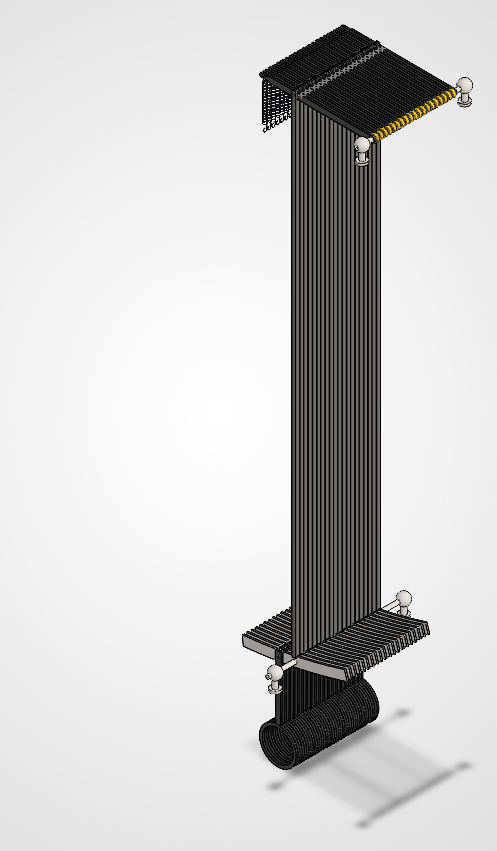
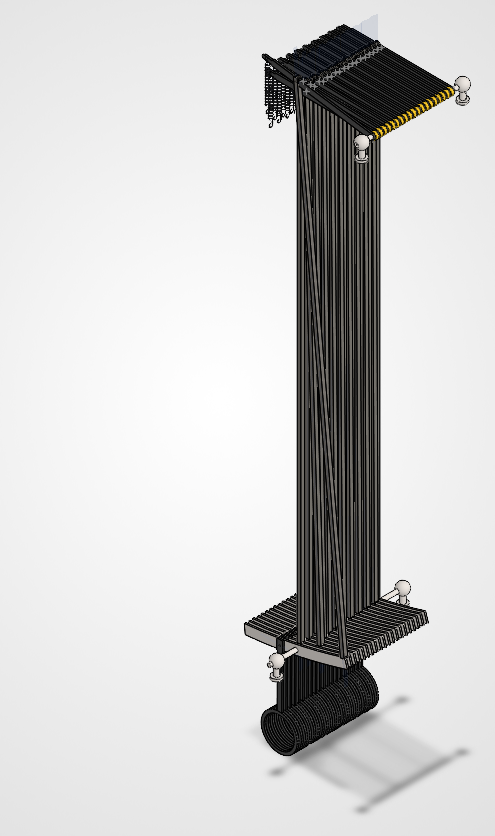
summation proto: pin anchor via grounded shaft face; reuse proto part

Changed region(s): [[0.4848, 0.0311, 0.9697, 0.933]]

diff --git a/cad/scripts/build_summation_proto.py b/cad/scripts/build_summation_proto.py
@@ -41,9 +41,9 @@ import os
 import sys
 
 from _common import (
-    FULLY_CONSTRAINED, UNDER_CONSTRAINED, _flag, _read_member, check,
-    component_transform, concentric_mate, distance_driver, log, name_bore_axis,
-    named_ref, world_point,
+    FULLY_CONSTRAINED, UNDER_CONSTRAINED, _flag, _read_member, bore_axis_ref,
+    check, component_transform, concentric_mate, distance_driver, log,
+    name_bore_axis, named_ref, world_point,
 )
 from build_channel_spring import MEAN_RADIUS, build_spring
 from build_channel_spring_installed import (
@@ -67,6 +67,12 @@ TOP_EYE_LOCAL_Y = PROTO_BODY + TOP_LEAD                  # 65.05 above part orig
 X0 = 50.0
 ROT_Y_POS90 = [[0.0, 0.0, -1.0], [0.0, 1.0, 0.0], [1.0, 0.0, 0.0]]
 
+# The lever-tab pin = a grounded pivot-shaft laid horizontal (axis along +X), so
+# the spring top eye hooks a real cylindrical face (fourbar's proven
+# concentric(axis, bore_axis_ref) pattern -- assembly-level reference axes do not
+# select by bare name in AddMate5).
+SHAFT_R = 6.35 / 2.0  # pivot-shaft OD radius (build_fourbar_test SHAFT_R)
+
 BOTTOM_MODE = os.environ.get("SUMMATION_BOTTOM", "spinlock")  # spinlock | concentric
 
 
@@ -83,22 +89,31 @@ def _status(adapter, comp: str) -> int:
 
 
 async def build(adapter) -> None:
-    from solidworks_mcp.adapters.base import InsertComponentParameters
+    from solidworks_mcp.adapters.base import (
+        ComponentRefParameters, InsertComponentParameters,
+    )
 
     log(f"proto gap (eye c2c) = {EYE_C2C:.2f} -> body {PROTO_BODY:.2f} "
         f"(leads bottom {BOTTOM_LEAD}, top {TOP_LEAD}); bottom mode = {BOTTOM_MODE}")
 
-    # 1. Build the proto spring (baked eye axes) -- separate name, never the real part.
-    axes = await build_spring(
-        adapter, PROTO_PART, PROTO_BODY, leads=(BOTTOM_LEAD, TOP_LEAD), eye_axes=True)
-    bottom_axis = axes["bottom_lead_axis"]
-    top_axis = axes["top_eye_axis"]
-    log(f"  baked axes: bottom-lead={bottom_axis!r} top-eye={top_axis!r}")
+    from _common import OUT_SLDPRT
+    path = (OUT_SLDPRT / f"{PROTO_PART}.SLDPRT").resolve()
+
+    # 1. Build the proto spring (baked eye axes) -- separate name, never the real
+    #    part. Reuse a prior build (deterministic Axis1/Axis2) to skip ~115 s.
+    if path.exists():
+        bottom_axis, top_axis = "Axis1", "Axis2"
+        log(f"  reusing existing {PROTO_PART}.SLDPRT (axes {bottom_axis}/{top_axis})")
+    else:
+        axes = await build_spring(
+            adapter, PROTO_PART, PROTO_BODY, leads=(BOTTOM_LEAD, TOP_LEAD),
+            eye_axes=True)
+        bottom_axis = axes["bottom_lead_axis"]
+        top_axis = axes["top_eye_axis"]
+        log(f"  baked axes: bottom-lead={bottom_axis!r} top-eye={top_axis!r}")
 
     # 2. Fresh assembly; insert the spring on-solution (Ry90), unfixed.
     check("create_assembly", await adapter.create_assembly())
-    from _common import OUT_SLDPRT
-    path = (OUT_SLDPRT / f"{PROTO_PART}.SLDPRT").resolve()
     data = check("insert proto spring", await adapter.insert_component(
         InsertComponentParameters(file_path=str(path), position=[X0, 0.0, 0.0],
                                   rotation=[0.0, 90.0, 0.0], configuration="")))
@@ -113,16 +128,23 @@ async def build(adapter) -> None:
         f"bottom eye {[round(v, 2) for v in bot_eye]}  "
         f"c2c {((top_eye[1] - bot_eye[1])):.2f}")
 
-    # 3. Grounded assembly anchors. Top pin = horizontal axis along X at the top
-    #    eye height; bottom-lead distance targets read from the as-placed axis.
-    top_pin = await name_bore_axis(
-        adapter, "Top Plane", TOP_EYE_LOCAL_Y, "Front Plane", 0.0, "lever-tab pin")
+    # 3. Grounded lever-tab pin: a pivot-shaft laid horizontal so its axis is the
+    #    line y = TOP_EYE_LOCAL_Y, z = 0 (collinear with the spring top-eye axis).
+    shaft_path = (OUT_SLDPRT / "pivot-shaft.SLDPRT").resolve()
+    pin_data = check("insert lever-tab pin", await adapter.insert_component(
+        InsertComponentParameters(file_path=str(shaft_path),
+                                  position=[X0, TOP_EYE_LOCAL_Y, 0.0],
+                                  rotation=[0.0, 90.0, 0.0], configuration="")))
+    pin = pin_data["name"]
+    if not pin_data.get("fixed"):
+        check("fix pin", await adapter.fix_component(ComponentRefParameters(name=pin)))
+    pin_od = [X0, TOP_EYE_LOCAL_Y + SHAFT_R, 0.0]  # a point on the pin's lateral face
     z_swing = MEAN_RADIUS  # |z| of the bottom-lead axis (at part-local x = mean_radius)
     x_slide = X0           # |x| of the bottom-lead axis (the rig offset)
 
-    # TOP hinge: top-eye axis concentric on the lever-tab pin.
+    # TOP hinge: top-eye axis concentric on the lever-tab pin face.
     await concentric_mate(
-        adapter, _entity_ref(spring, top_axis, "AXIS"), named_ref(top_pin, "AXIS"),
+        adapter, _entity_ref(spring, top_axis, "AXIS"), bore_axis_ref(pin_od),
         label="top hinge (eye on lever-tab pin)", verify=(spring, placed))
 
     if BOTTOM_MODE == "concentric":
